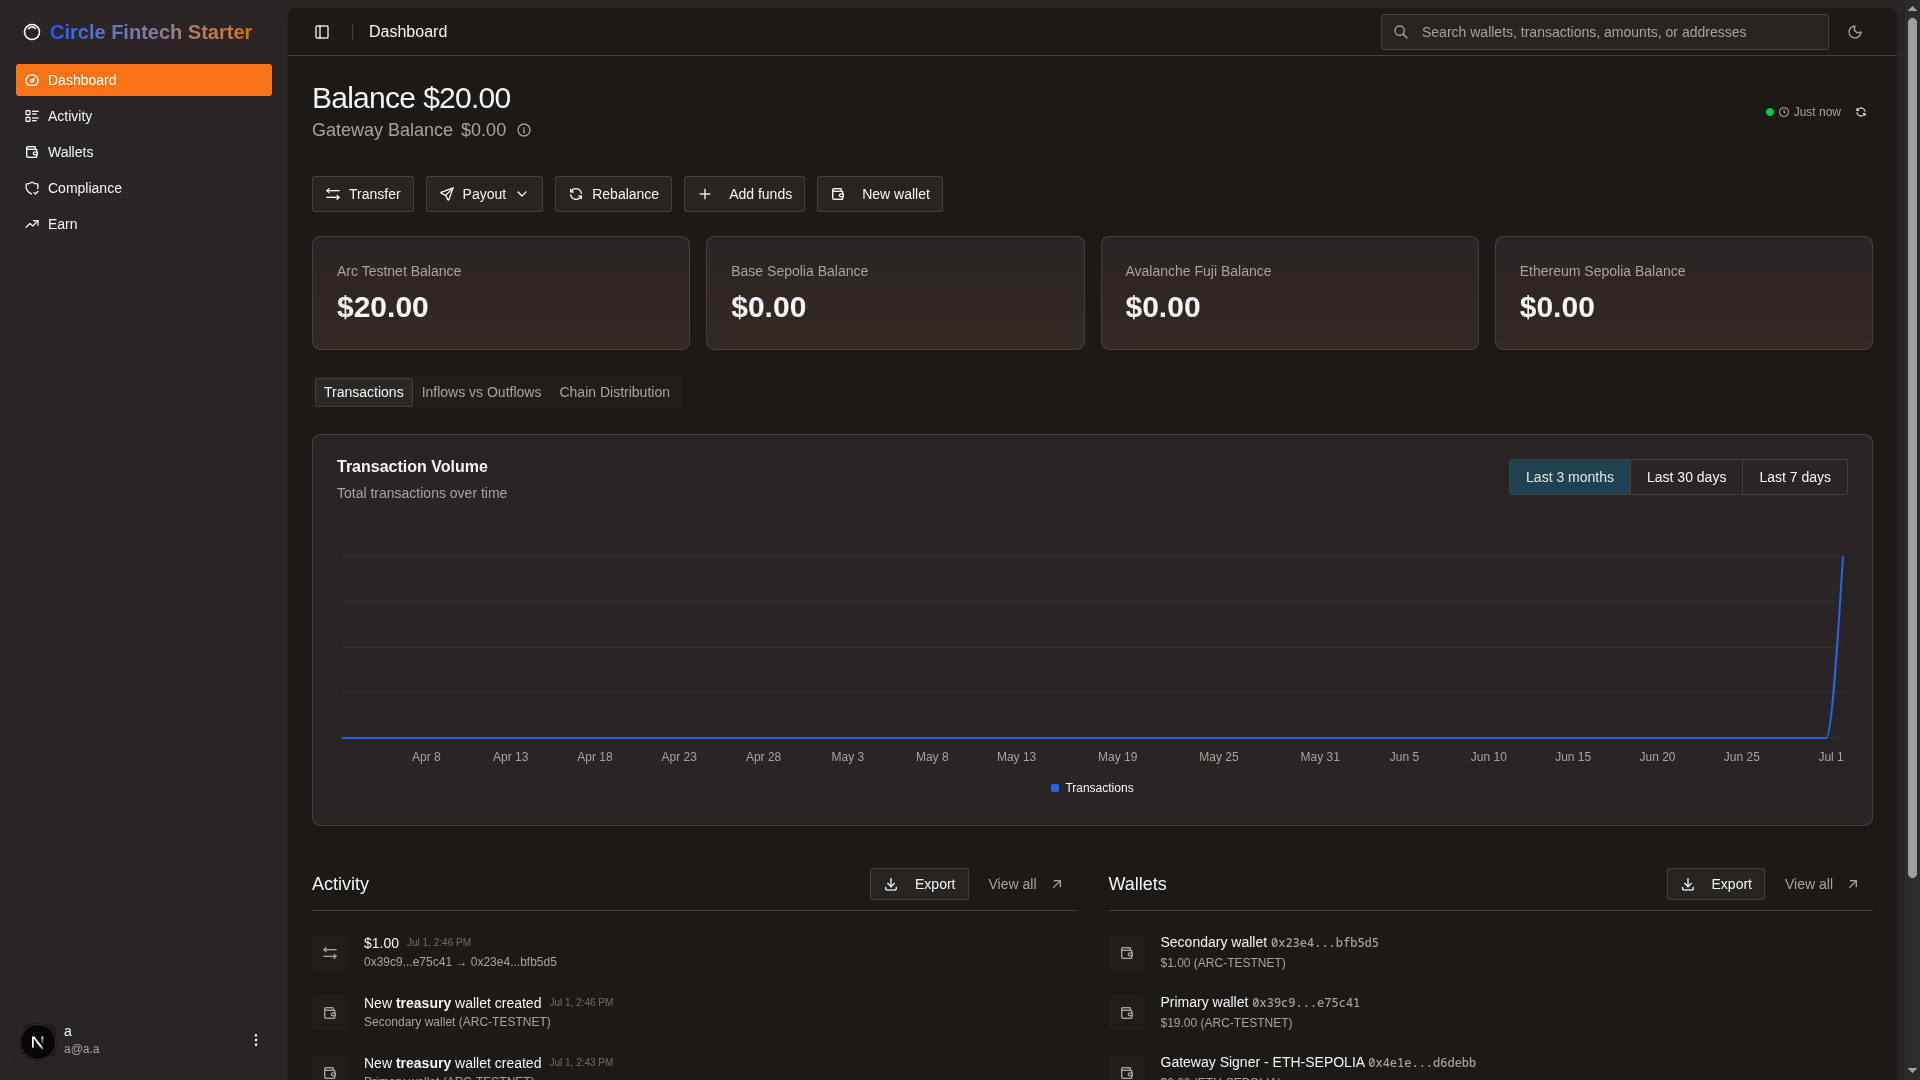
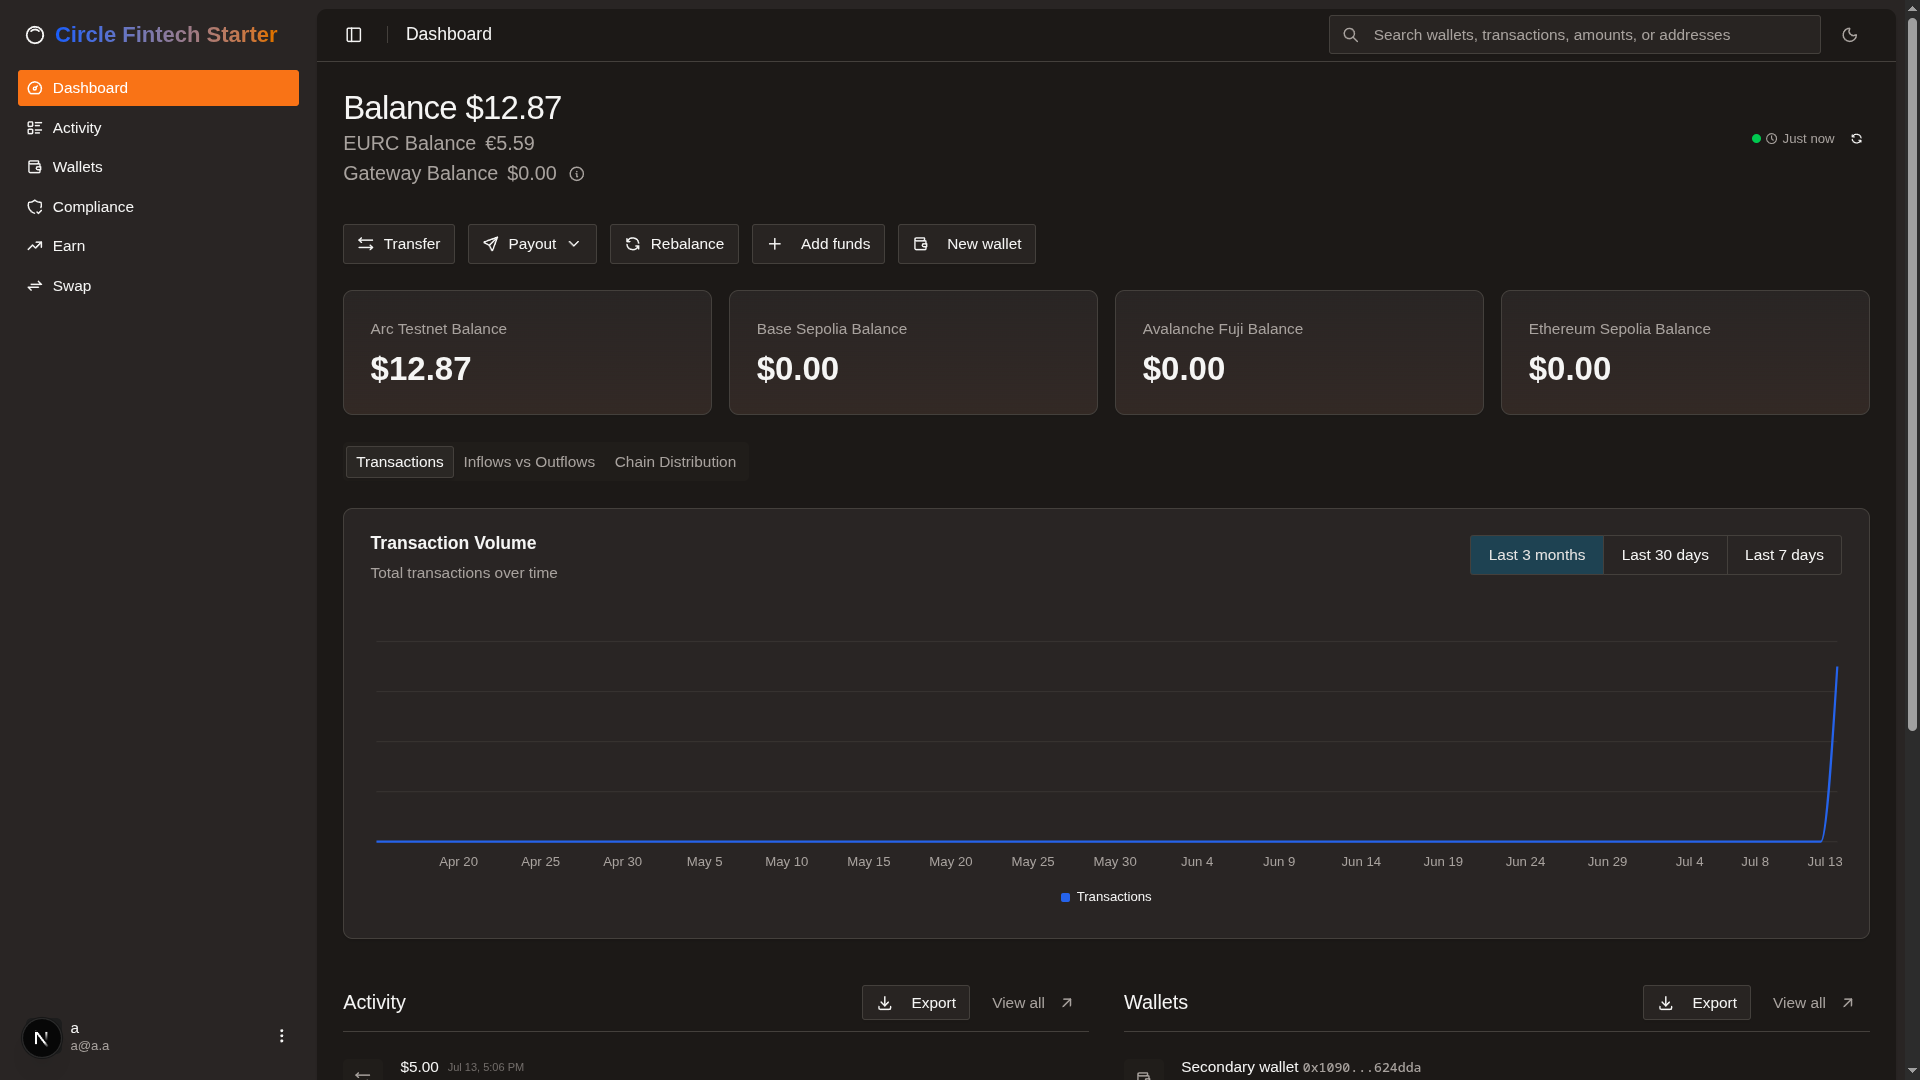
Update documentation to reflect the current state of the codebase

diff --git a/app/api/payout/route.ts b/app/api/payout/route.ts
@@ -242,10 +242,6 @@ export const POST = withAuth(async (req, { user, supabase }) => {
       const destinationAppKitChain =
         APP_KIT_CHAIN_BY_BLOCKCHAIN[destinationBlockchain];
 
-      // #region agent log
-      fetch('http://127.0.0.1:7276/ingest/b6916372-e6aa-4804-b60b-f6f109736944',{method:'POST',headers:{'Content-Type':'application/json','X-Debug-Session-Id':'3365f4'},body:JSON.stringify({sessionId:'3365f4',runId:'pre-fix-1',hypothesisId:'H3',location:'app/api/payout/route.ts:178',message:'Gateway payout chain mapping',data:{requestedDestinationChain:destinationChain,destinationBlockchain,destinationAppKitChain:destinationAppKitChain ?? null},timestamp:Date.now()})}).catch(()=>{});
-      // #endregion
-
       if (!destinationAppKitChain) {
         return NextResponse.json(
           { error: `Unsupported destination chain: ${destinationChain}` },
@@ -297,10 +293,6 @@ export const POST = withAuth(async (req, { user, supabase }) => {
         );
       }
 
-      // #region agent log
-      fetch('http://127.0.0.1:7276/ingest/b6916372-e6aa-4804-b60b-f6f109736944',{method:'POST',headers:{'Content-Type':'application/json','X-Debug-Session-Id':'3365f4'},body:JSON.stringify({sessionId:'3365f4',runId:'pre-fix-2',hypothesisId:'H5',location:'app/api/payout/route.ts:230',message:'Gateway signer/depositor split',data:{gatewaySignerAddressCount:gatewaySignerAddresses.length,selectedSignerAddress:`${gatewaySignerAddresses[0].slice(0,6)}...${gatewaySignerAddresses[0].slice(-4)}`,nonSignerAddressCount:nonGatewaySignerAddresses.size},timestamp:Date.now()})}).catch(()=>{});
-      // #endregion
-
       const { data: gatewayDeposits, error: gatewayDepositsError } =
         await supabase
           .from("transactions")
@@ -332,10 +324,6 @@ export const POST = withAuth(async (req, { user, supabase }) => {
             )
         )
       );
-
-      // #region agent log
-      fetch('http://127.0.0.1:7276/ingest/b6916372-e6aa-4804-b60b-f6f109736944',{method:'POST',headers:{'Content-Type':'application/json','X-Debug-Session-Id':'3365f4'},body:JSON.stringify({sessionId:'3365f4',runId:'pre-fix-1',hypothesisId:'H1',location:'app/api/payout/route.ts:239',message:'Gateway payout source address candidates',data:{walletCount:wallets.length,gatewaySignerWalletCount:wallets.filter((wallet)=>wallet.type==='gateway_signer').length,nonGatewaySignerAddressCount:nonGatewaySignerAddresses.size,gatewayDepositRowCount:(gatewayDeposits ?? []).length,uniqueAddressCount:uniqueAddresses.length,uniqueAddressPreview:uniqueAddresses.slice(0,3).map((address)=>`${address.slice(0,6)}...${address.slice(-4)}`)},timestamp:Date.now()})}).catch(()=>{});
-      // #endregion
 
       if (uniqueAddresses.length === 0) {
         return NextResponse.json(
@@ -486,22 +474,6 @@ export const POST = withAuth(async (req, { user, supabase }) => {
           },
         });
       } catch (error) {
-        const err = error as {
-          code?: unknown;
-          type?: unknown;
-          message?: unknown;
-          shortMessage?: unknown;
-          details?: unknown;
-          cause?: {
-            code?: unknown;
-            status?: unknown;
-            method?: unknown;
-            url?: unknown;
-          };
-        };
-        // #region agent log
-        fetch('http://127.0.0.1:7276/ingest/b6916372-e6aa-4804-b60b-f6f109736944',{method:'POST',headers:{'Content-Type':'application/json','X-Debug-Session-Id':'3365f4'},body:JSON.stringify({sessionId:'3365f4',runId:'pre-fix-1',hypothesisId:'H4',location:'app/api/payout/route.ts:329',message:'Gateway spend error details',data:{code:err?.code ?? null,type:err?.type ?? null,message:typeof err?.message==='string' ? err.message : String(err?.message ?? ''),shortMessage:typeof err?.shortMessage==='string' ? err.shortMessage : null,details:typeof err?.details==='string' ? err.details : null,causeCode:err?.cause?.code ?? null,causeStatus:err?.cause?.status ?? null,causeMethod:typeof err?.cause?.method === 'string' ? err.cause.method : null,causeUrl:typeof err?.cause?.url === 'string' ? err.cause.url : null},timestamp:Date.now()})}).catch(()=>{});
-        // #endregion
         console.error("Gateway payout via unifiedBalance.spend failed:", error);
         const mappedError = getUnifiedBalancePayoutError(error);
         return NextResponse.json(

diff --git a/app/api/bridge/rebalance/route.ts b/app/api/bridge/rebalance/route.ts
@@ -272,7 +272,7 @@ export const POST = withAuth(async (request, { user, supabase }) => {
     // Resolves as soon as the source-chain burn is broadcast. Once the burn is
     // on-chain, CCTP + the forwarder complete the transfer server-side at
     // Circle independently of this HTTP request, and the destination-mint
-    // webhook reconciles the row to COMPLETE (see app/api/webhooks/circle).
+    // webhook reconciles the row to COMPLETE (see app/api/circle/webhook).
     // So we can respond the moment the burn lands instead of blocking the whole
     // request on FAST/forwarder settlement (1-3 min) — which is what left the
     // rebalance dialog spinning indefinitely under `next dev`, where the

diff --git a/README.md b/README.md
@@ -1,6 +1,6 @@
 # Arc Fintech Starter App
 
-Modern multi-chain treasury management system. This sample application uses Next.js, Supabase, and Circle Developer Controlled Wallets, Circle Gateway and Circle Bridge Kit with Forwarding Service to demonstrate a multi-chain treasury management system with bridge capabilities.
+Modern multi-chain treasury management system. This sample application uses Next.js, Supabase, and Circle Developer Controlled Wallets, Circle Gateway, Circle App Kit, and Circle EarnKit to demonstrate a multi-chain treasury management system with bridge, swap, yield, and compliance capabilities.
 
 <img alt="Fintech Starter App dashboard" src="public/screenshot.png" />
 
@@ -19,6 +19,7 @@ Modern multi-chain treasury management system. This sample application uses Next
 - **Supabase CLI** — Install via `npm install -g supabase` or see [Supabase CLI docs](https://supabase.com/docs/guides/cli/getting-started)
 - **Docker Desktop** (only if using the local Supabase path) — [Install Docker Desktop](https://www.docker.com/products/docker-desktop/)
 - Circle Developer Controlled Wallets **[API key](https://console.circle.com/signin)** and **[Entity Secret](https://developers.circle.com/wallets/dev-controlled/register-entity-secret)**
+- A Circle **Kit Key** — optional for Earn, but **required for Swap** (see [Environment Variables](#environment-variables))
 
 ## Getting Started
 
@@ -83,10 +84,14 @@ Modern multi-chain treasury management system. This sample application uses Next
 - Built with [Next.js](https://nextjs.org/) App Router and [Supabase](https://supabase.com/)
 - Uses [Circle Developer Controlled Wallets](https://developers.circle.com/wallets/dev-controlled) for managing multi-chain transactions
 - Uses [Circle Gateway](https://developers.circle.com/gateway) for a unified, cross-chain USDC balance
-- Utilizes `@circle-fin/app-kit` (`kit.bridge` / `kit.estimateBridge`) for bridging assets across supported chains
-- [Circle webhooks](https://developers.circle.com/w3s/docs/circle-webhooks-overview) keep transaction and Gateway state in sync (see [Webhooks & Real-Time Updates](#webhooks--real-time-updates))
+- Utilizes `@circle-fin/app-kit` for bridging assets across supported chains (`kit.bridge` / `kit.estimateBridge`) and for swapping USDC ⇄ EURC on Arc Testnet (`kit.swap` / `kit.estimateSwap`)
+- Uses `@circle-fin/earn-kit` to discover USDC vaults on Arc Testnet, deposit, withdraw, and track positions
+- Uses Circle's [Compliance Engine](https://developers.circle.com/w3s/compliance-engine) to screen addresses before transfers
+- [Circle webhooks](https://developers.circle.com/api-reference/webhook-endpoints) keep transaction and [Gateway](https://developers.circle.com/gateway/webhooks) state in sync (see [Webhooks & Real-Time Updates](#webhooks--real-time-updates))
 - Real-time UI updates powered by Supabase Realtime subscriptions
 - Styled with [Tailwind CSS](https://tailwindcss.com) and components from [shadcn/ui](https://ui.shadcn.com/)
+
+> **Earn rewards are mocked.** Vault deposits, withdrawals, and positions are real EarnKit operations, but reward accrual and claiming are faked client-side in `lib/earn/mock-rewards.ts` — Arc Testnet has no live Merkl reward distribution. The module is self-contained and meant to be deleted once real rewards ship.
 
 ## Webhooks & Real-Time Updates
 
@@ -98,7 +103,7 @@ Circle must reach your endpoint over the public internet, so local development n
 ngrok http 3000
 ```
 
-The app uses two subscriptions (both routed to the same handler): a standard Developer-Controlled Wallets subscription at `/api/circle/webhook` for `transactions.*` events, and a permissionless Gateway subscription at `/api/circle/gateway-webhook` for `gateway.deposit.finalized`. Circle requires a unique endpoint URL per subscription, which is why the Gateway subscription uses a distinct path. New wallet addresses are registered on the Gateway subscription automatically when wallets are created.
+The app uses two subscriptions (both routed to the same handler): a standard Developer-Controlled Wallets subscription at `/api/circle/webhook` for `transactions.*` events, and a permissionless Gateway subscription at `/api/circle/gateway-webhook` for `gateway.deposit.finalized`. Circle requires a unique endpoint URL per subscription, which is why the Gateway subscription uses a distinct path. New wallet addresses are registered on the Gateway subscription automatically when wallets are created; `npm run webhooks:register` backfills addresses for wallets that already exist.
 
 ## Environment Variables
 
@@ -114,6 +119,9 @@ SUPABASE_SECRET_KEY=your-secret-key
 CIRCLE_API_KEY=your-circle-api-key
 CIRCLE_ENTITY_SECRET=your-circle-entity-secret
 
+# Circle Kit Key (shared by Earn and Swap; required for Swap)
+KIT_KEY=KIT_KEY:<keyId>:<keySecret>
+
 # Webhooks (see "Webhooks & Real-Time Updates" below)
 WEBHOOK_ENDPOINT_URL=https://your-ngrok-url/api/circle/webhook
 # GATEWAY_WEBHOOK_ENDPOINT_URL=  # optional override; derived from the above if unset
@@ -127,11 +135,13 @@ ARC_TESTNET_RPC_KEY=
 | `NEXT_PUBLIC_SUPABASE_URL` | Public | Supabase project URL. |
 | `NEXT_PUBLIC_SUPABASE_PUBLISHABLE_KEY` | Public | Supabase publishable key. |
 | `SUPABASE_SECRET_KEY` | Server-side | Supabase secret key for admin operations. |
-| `CIRCLE_API_KEY` | Server-side | Circle API key for wallet operations. |
+| `CIRCLE_API_KEY` | Server-side | Circle API key for wallet operations, compliance screening, and webhook subscription management. |
 | `CIRCLE_ENTITY_SECRET` | Server-side | Circle entity secret for signing transactions. |
+| `KIT_KEY` | Server-side | Circle Kit Key, shared by EarnKit and App Kit Swap. **Optional for Earn** — it runs permissionlessly without one. **Required for Swap** — the Stablecoin Service rejects an empty kit key, so the Swap page will not work without it. Setting it also enables integrator attribution and higher rate limits. Get a free key from the Circle Console. Format: `KIT_KEY:<keyId>:<keySecret>`. |
 | `WEBHOOK_ENDPOINT_URL` | Server-side | Public HTTPS URL Circle posts notifications to (e.g. your ngrok tunnel + `/api/circle/webhook`). Used to create/sync the standard and Gateway webhook subscriptions. If unset, falls back to `${NEXT_PUBLIC_APP_URL}/api/circle/webhook` and registration is skipped when neither is set. |
 | `GATEWAY_WEBHOOK_ENDPOINT_URL` | Server-side | Optional. Dedicated endpoint for the Gateway *permissionless* subscription. Circle requires a unique URL per subscription, so this must differ from `WEBHOOK_ENDPOINT_URL`. If unset, it is derived by swapping the path to `/api/circle/gateway-webhook`. |
 | `ARC_TESTNET_RPC_KEY` | Server-side | Optional. API key for Arc Testnet RPC reads; without it, a rate-limited public RPC is used. |
+| `SUPABASE_SERVICE_ROLE_KEY` | Server-side | Only needed by the `npm run webhooks:register` backfill script, which reads wallet addresses directly. The app itself uses `SUPABASE_SECRET_KEY`. |
 
 ## User Accounts
 
